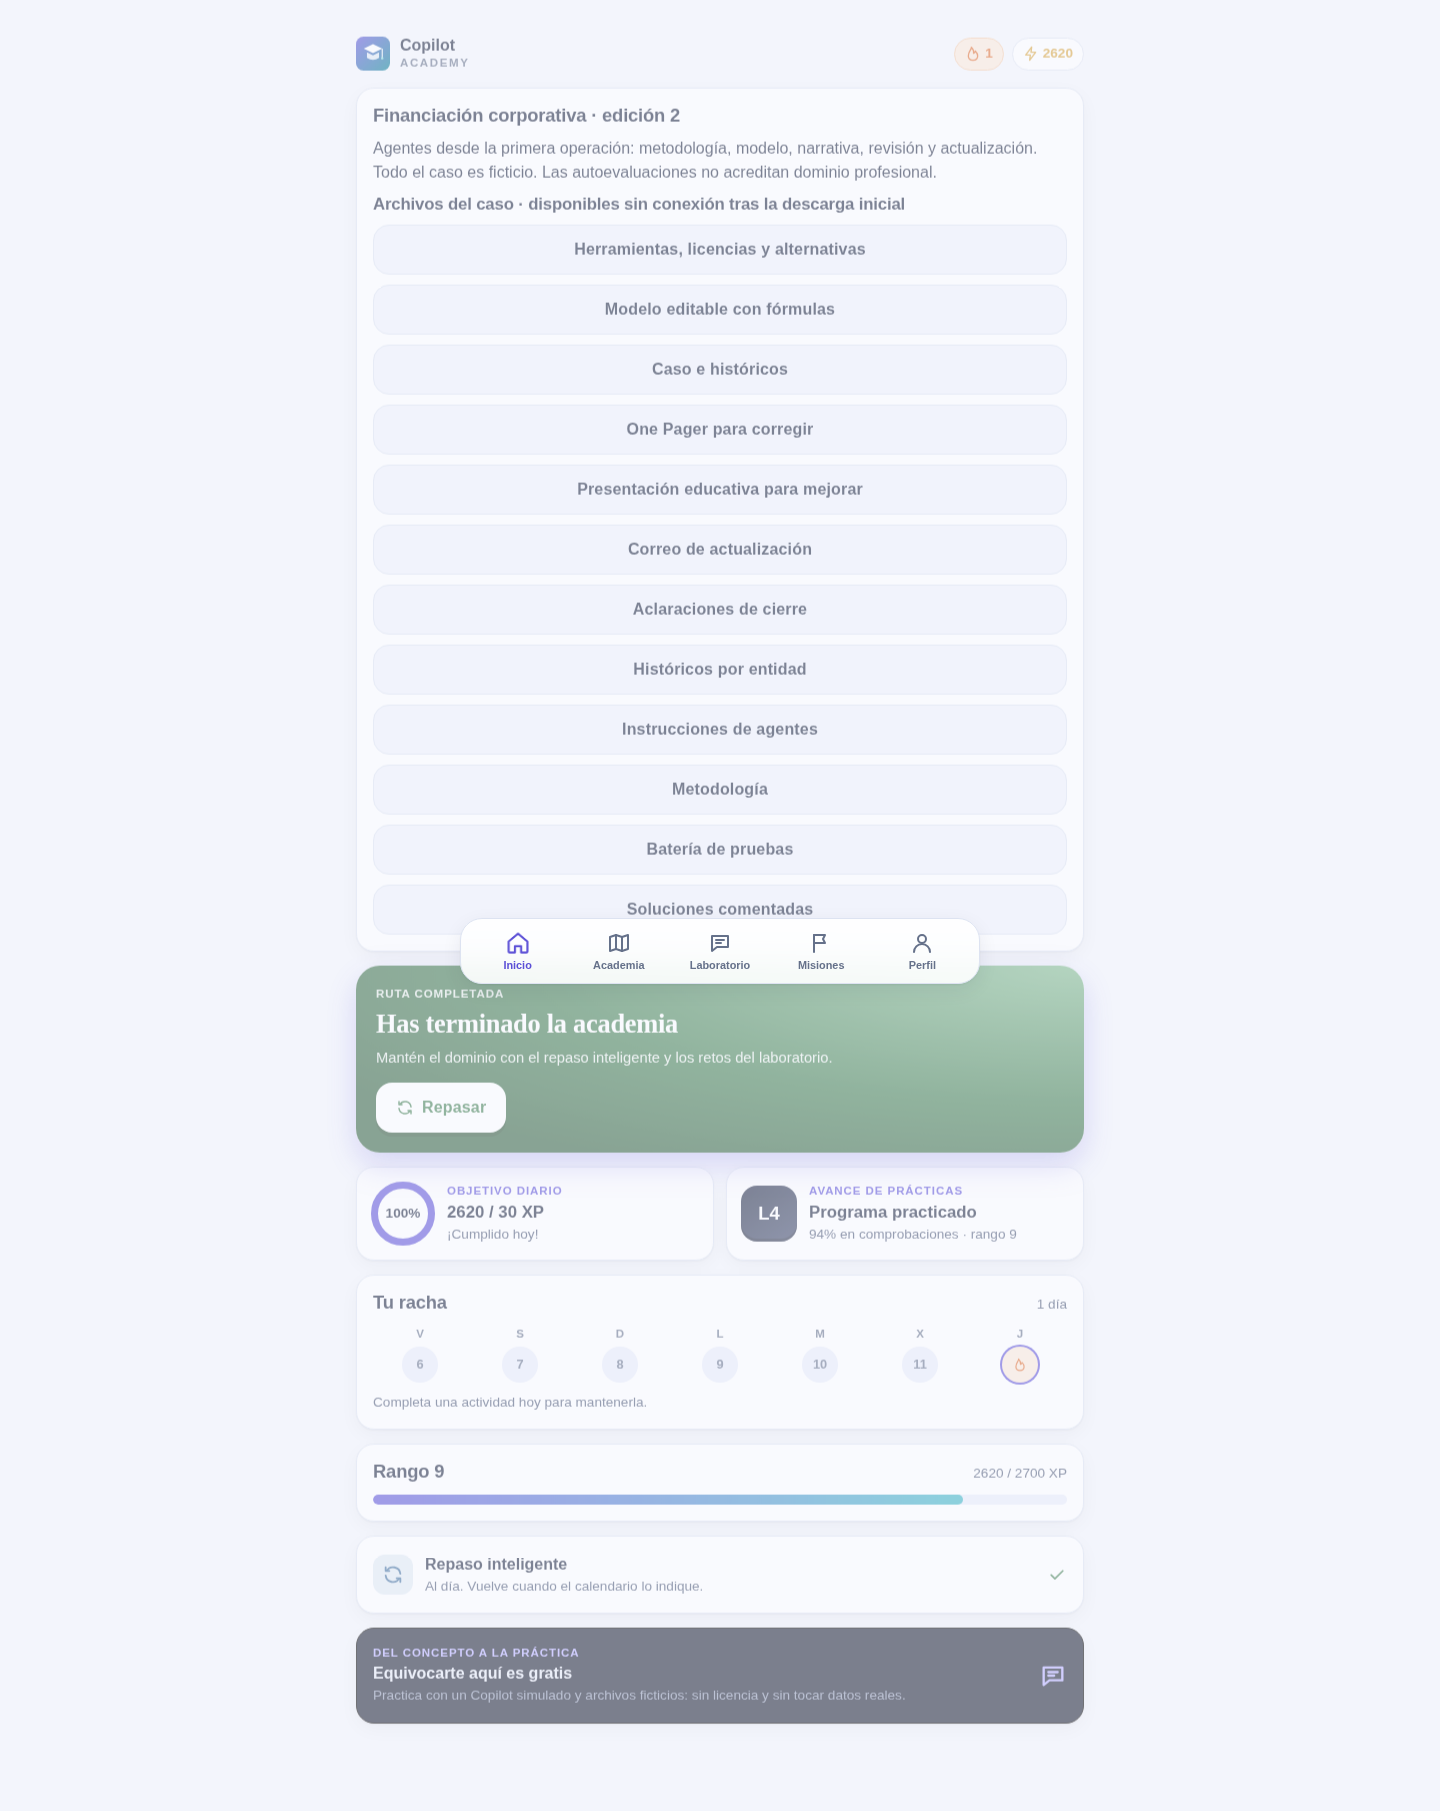
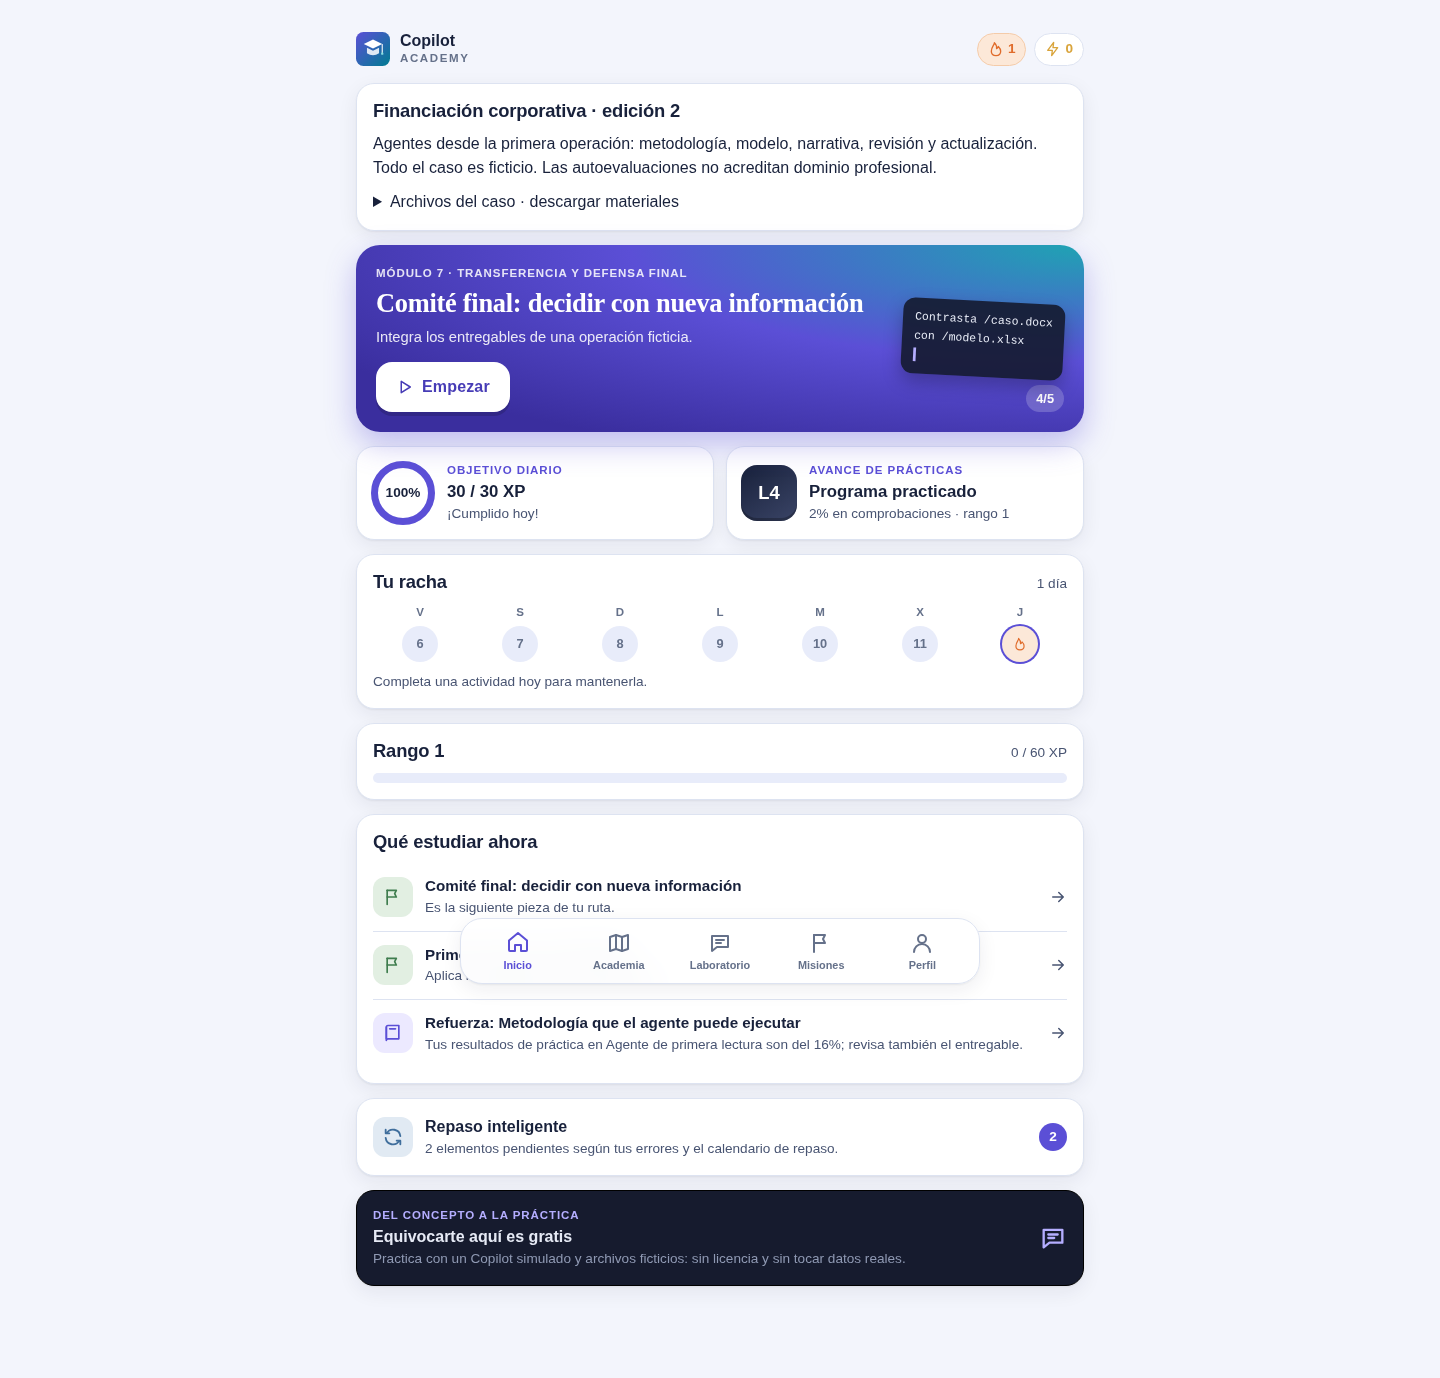
Finish editorial alignment and verify full browser, progress and offline flows

diff --git a/index.html b/index.html
@@ -4,7 +4,7 @@
   <meta charset="utf-8">
   <meta name="viewport" content="width=device-width, initial-scale=1, viewport-fit=cover">
   <title>Copilot Academy</title>
-  <meta name="description" content="Aprende Microsoft 365 Copilot y Copilot Studio con microlecciones, un chat simulado, misiones y repaso inteligente.">
+  <meta name="description" content="Practica agentes y Microsoft 365 Copilot en operaciones de financiación: modelos, documentación, investigación y revisión con un caso ficticio.">
   <meta name="theme-color" content="#F3F5FC" media="(prefers-color-scheme: light)">
   <meta name="theme-color" content="#111626" media="(prefers-color-scheme: dark)">
   <meta name="color-scheme" content="light dark">

diff --git a/js/views/academy.js b/js/views/academy.js
@@ -13,7 +13,7 @@ export function renderAcademy(page, ctx) {
   const { course, state } = ctx;
   page.append(h('header', { class: 'page-head' },
     h('span', { class: 'kicker' }, 'Tu ruta'), h('h1', {}, 'Academia'),
-    h('p', { class: 'muted' }, `${course.modules.length} módulos de L2 a L5. Supera la evaluación de cada módulo para abrir el siguiente.`)));
+    h('p', { class: 'muted' }, `${course.modules.length} módulos de práctica financiera. Las evaluaciones abren el siguiente módulo; el portafolio requiere revisión humana.`)));
 
   course.modules.forEach(mod => {
     const unlocked = isModuleUnlocked(state, course, mod.id);

diff --git a/js/sim/copilot.js b/js/sim/copilot.js
@@ -248,7 +248,7 @@ export class Copilot {
     return [
       line('Cómo usar este Copilot simulado:', 'dim'),
       line('• Escribe tu petición como lo harías en Copilot.'),
-      line('• / + nombre de archivo lo añade como contexto: «resume /Informe_octubre.docx».'),
+      line('• / + nombre de archivo lo añade como contexto: «resume /caso.txt».'),
       line('• @ + agente lo invoca: «@Researcher …» o un agente propio.'),
       line('• Arriba eliges la app (Chat, Word, Excel…), el modo Trabajo/Web y «Nuevo chat».'),
       line('• En Archivos puedes ver cada documento (y editar los agentes).'),

diff --git a/js/core/progress.js b/js/core/progress.js
@@ -28,8 +28,7 @@ export function rankInfo(xp) {
   return { rank, from, to, progress: (xp - from) / (to - from) };
 }
 
-/** Nivel de dominio de Copilot (L2→L5), basado en evaluaciones superadas.
- *  L3: módulos 1–2 · L4: todos salvo los tres últimos (con 7 módulos, 1–4) · L5: todos y el proyecto final. */
+/** Avance de práctica local: L3 módulos 1–2, L4 módulos 1–4. No acredita experto. */
 export function masteryLevel(state, course) {
   const passed = id => Boolean(state.exams[id]?.passed);
   const ids = course.modules.map(m => m.id);

diff --git a/css/screens.css b/css/screens.css
@@ -262,3 +262,7 @@
   .ex-portfolio select { max-width: 100%; width: 100%; }
   .ex-portfolio textarea { width: 100%; box-sizing: border-box; }
 }
+.ex-portfolio .field { display: flex; flex-direction: column; gap: 8px; margin-block: 16px; }
+.ex-portfolio select { width: 100%; max-width: 100%; }
+.ex-portfolio .editor-inline::placeholder { color: var(--term-ink); opacity: .8; }
+.ex-portfolio details { margin-block: 16px; }

diff --git a/tests/browser-edition.py b/tests/browser-edition.py
@@ -1,13 +1,13 @@
 from playwright.sync_api import sync_playwright
 from pathlib import Path
-import json
+import json,os
 ROOT=Path(__file__).resolve().parents[1]
 mods=[json.loads((ROOT/f'content/modules/m{i}.json').read_text()) for i in range(1,8)]
 missions=json.loads((ROOT/'content/missions.json').read_text())
 BASE='http://127.0.0.1:4173'
 with sync_playwright() as p:
  browser=p.chromium.launch(executable_path='/usr/bin/chromium',args=['--no-sandbox'])
- ctx=browser.new_context(viewport={'width':390,'height':844},accept_downloads=True)
+ ctx=browser.new_context(viewport={'width':390,'height':844},accept_downloads=True,reduced_motion='reduce')
  page=ctx.new_page();errors=[];page.on('pageerror',lambda e:errors.append(str(e)))
  page.goto(BASE+'/manifest.webmanifest')
  page.evaluate("Promise.all([caches.open('cpa-old-edition'),caches.open('cca-legacy')])")
@@ -51,7 +51,8 @@ with sync_playwright() as p:
       rows.nth(j).get_by_role('button',name='Subir').click()
    elif t=='portfolio':
     assert page.evaluate('document.documentElement.scrollWidth<=innerWidth'),route+' portfolio overflow'
-    if not (ROOT/'docs/screenshots/edition-portfolio.png').exists():page.screenshot(path=str(ROOT/'docs/screenshots/edition-portfolio.png'),full_page=True)
+    if not (ROOT/'docs/screenshots/edition-portfolio.png').exists():
+     page.wait_for_timeout(400);page.screenshot(path=str(ROOT/'docs/screenshots/edition-portfolio.png'),full_page=False)
     page.locator('textarea').first.fill('Entregable de prueba: modelo.xlsx Modelo B14 base 5,333562. EBITDA8 deuda20 neta18. Evidencia/decisiones/controles registrados. '+str(step.get('solution','')))
     for el in page.locator('select').all():
      values=el.locator('option').evaluate_all('(els)=>els.map(e=>e.value)');el.select_option('2' if '2' in values else 'no')
@@ -72,12 +73,12 @@ with sync_playwright() as p:
   for l in m['lessons']:state['lessons'][l['id']]={'completedAt':'2026-11-12','best':1}
  page.evaluate('(s)=>localStorage.setItem("cpa.state",JSON.stringify(s))',state)
  page.reload()
- for m in mods:
+ for m in ([] if os.environ.get('CONTROLS_ONLY') else mods):
   for lesson in m['lessons']:run('#/lesson/'+lesson['id'])
   run('#/exam/'+m['id'])
   print('PASS activities',m['id'],flush=True)
- for mission in missions:run('#/mission/'+mission['id'])
- for challenge in lab:run('#/challenge/'+challenge['id'])
+ for mission in ([] if os.environ.get('CONTROLS_ONLY') else missions):run('#/mission/'+mission['id'])
+ for challenge in ([] if os.environ.get('CONTROLS_ONLY') else lab):run('#/challenge/'+challenge['id'])
  for route in ['#/academy','#/missions','#/lab','#/profile']:
   page.goto(BASE+'/'+route);page.locator('.page').wait_for();page.wait_for_timeout(200)
   assert page.evaluate('document.documentElement.scrollWidth<=innerWidth'),route+' overflow'
@@ -106,8 +107,9 @@ with sync_playwright() as p:
  assert Path(d.value.path()).read_bytes()[:2]==b'PK','offline download is real OOXML'
  for route in ['#/academy','#/lab','#/lesson/'+first['id']]:page.goto(BASE+'/'+route);page.wait_for_timeout(250)
  ctx.set_offline(False)
- page.goto(BASE+'/#/profile');page.get_by_role('button',name='Reiniciar todo el progreso').click();page.locator('.sheet .btn-danger').click();page.locator('.sheet .btn-danger').click()
+ page.goto(BASE+'/#/profile');page.get_by_role('button',name='Reiniciar todo el progreso').click();page.get_by_role('button',name='Continuar',exact=True).click();page.get_by_role('button',name='Borrar todo',exact=True).click()
+ page.wait_for_function('JSON.parse(localStorage.getItem("cpa.state")).xp===0')
  assert page.evaluate('JSON.parse(localStorage.getItem("cpa.state")).xp')==0
  assert not errors,errors
- print('PASS all 21 lessons, 7 exams, 14 missions, 7 guided labs; mobile/desktop/dark; wrong-answer/resume/export/import/reset; cache migration and real offline download; no JS errors')
+ print('PASS '+('controls-only run' if os.environ.get('CONTROLS_ONLY') else 'all 21 lessons, 7 exams, 14 missions, 7 guided labs')+'; mobile/desktop/dark; wrong-answer/resume/export/import/reset; cache migration and real offline download; no JS errors')
  browser.close()

diff --git a/docs/EDITION-SPEC.md b/docs/EDITION-SPEC.md
@@ -1,5 +1,5 @@
 # Especificación compartida · edición financing-v2
-Base: main = rama por defecto, 6476948. Sin instrucciones AGENTS.md en checkout. PR contra main (rama de despliegue; no merge).
+Base: main (publicada) y claude/funny-hopper-mj74xd (por defecto) coinciden en contenido, 6476948. Sin instrucciones AGENTS.md en checkout. PR contra main (rama de despliegue; no merge).
 Caso único ficticio: Levante Envases adquiere Murcia Pack. Todas las cifras en millones EUR. EBITDA combinado 2025 8 (6+2), ventas 60 (45+15). Compra equity 12, refinanciación deuda existente 8, capex inicial 3, incremento NWC inicial 2, fees 1, caja mínima 2: usos 28. Fuentes deuda nueva 20 + equity nuevo 8 =28. Deuda existente se cancela, no sumar de nuevo. Caja inicial post cierre 2; deuda 20; neta 18. EBITDA 2026 management 9; base 8; revisión 7. Capex recurrente base 3, revisión 4; DSO base 60 revisión 75. No sinergias en base.
 Recursos locales: content/resources/modelo.xlsx (Inputs, Historicos, Modelo, SU, Control), caso.docx, one-pager.docx y fare.pptx (dos últimos contienen errores deliberados: deuda neta 20 vs18, EBITDA 9 atribuido a base), actualizacion.eml; metodologia.md, agentes.md, pruebas-agentes.json, soluciones.md. Principal crea archivos y catálogo descargable.
 Módulos mantener rutas m1..m7 pero TODOS IDs de lección y ejercicio nuevos (f2-*). 21 lecciones (3 por módulo) con progresión problema/ejemplo/procedimiento/fallo/práctica/validación/transferencia. m1 agente operación; m2 Excel; m3 documentos/presentaciones; m4 investigación; m5 revisión Riesgos; m6 actualización y Studio; m7 transferencia y defensa. Conceptos nuevos agrupados en 7 competencias, 3 conceptos por módulo (ej: agent.method, agent.sources, agent.test). Cada lección asignada a un concepto.

diff --git a/docs/VERIFICACION.md b/docs/VERIFICACION.md
@@ -21,3 +21,7 @@ Se sustituyeron IDs y cantidades de la edición antigua por 21 lecciones y 21 co
 No se ha usado el tenant del alumno ni se han ejecutado Agent Builder, Analyst, Researcher, Cowork o Studio reales. Las nueve pruebas de agentes son fixtures manuales pendientes, con condiciones de fallo y registros de evidencia. Licencia, disponibilidad, fuentes, permisos, conectores y comportamiento real deben contrastarse allí. Documentación oficial comprobada en [CAPACIDADES.md](CAPACIDADES.md), también distribuida offline.
 
 La apertura OOXML mediante librerías no es renderizado ni recálculo en Microsoft Office. El evaluador de fórmulas admite las operaciones usadas en este libro educativo; no es un motor Excel general ni prueba de macros/vínculos. No se ha probado instalación PWA en dispositivo iOS físico. Capturas de la app en `docs/screenshots/edition-*.png`; no se atribuye al simulador acceso real, verificación independiente ni capacidad de producción.
+
+## Resultado final de navegador
+
+`npm run test:e2e` terminó con código 0: 21 lecciones, 7 evaluaciones, 14 misiones y 7 laboratorios guiados. Sin errores JavaScript ni desbordamiento horizontal en rutas comprobadas. Exportación/restauración de evidencia, reanudación y feedback de respuesta errónea, modo oscuro y reinicio completo comprobados. Cachés antiguas `cpa-*` y `cca-*` eliminadas al activar nueva edición; recarga y navegación offline; descarga real de `modelo.xlsx` offline con firma OOXML `PK`. Capturas móvil, escritorio, portfolio y perfil oscuro guardadas. Dos confirmaciones del reinicio se identifican por nombre y se espera el estado persistido: se corrigió una carrera del test que antes pulsaba el mismo botón dos veces.
